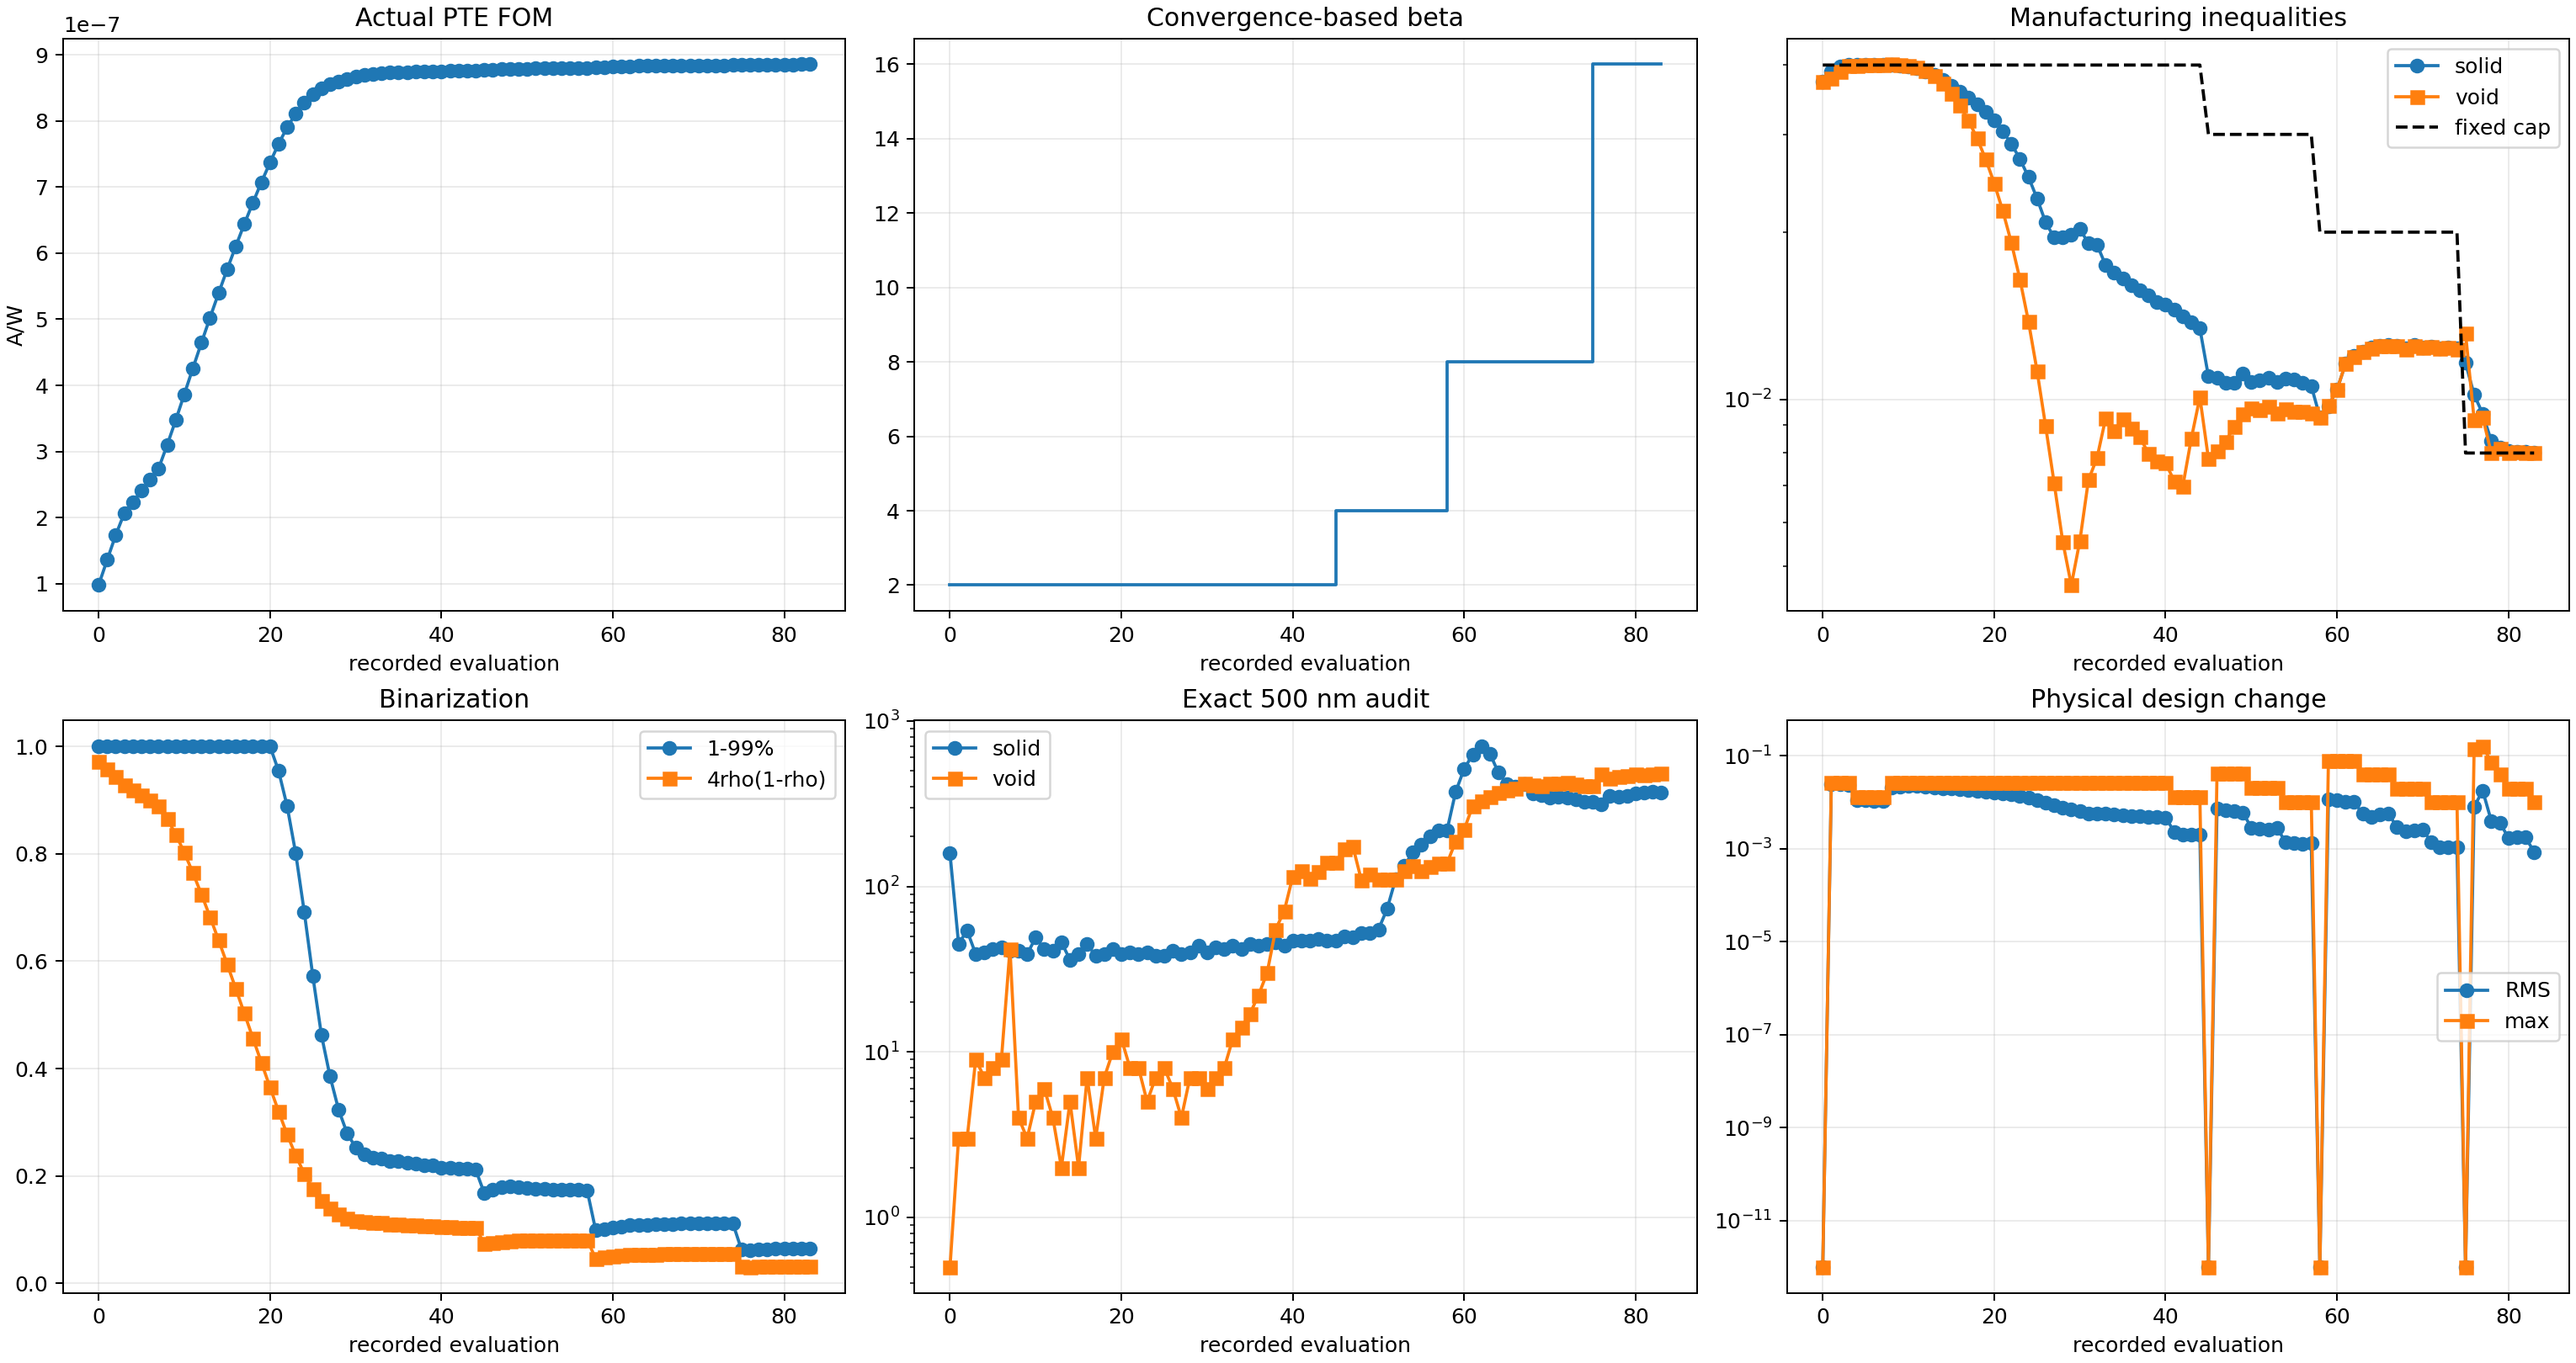
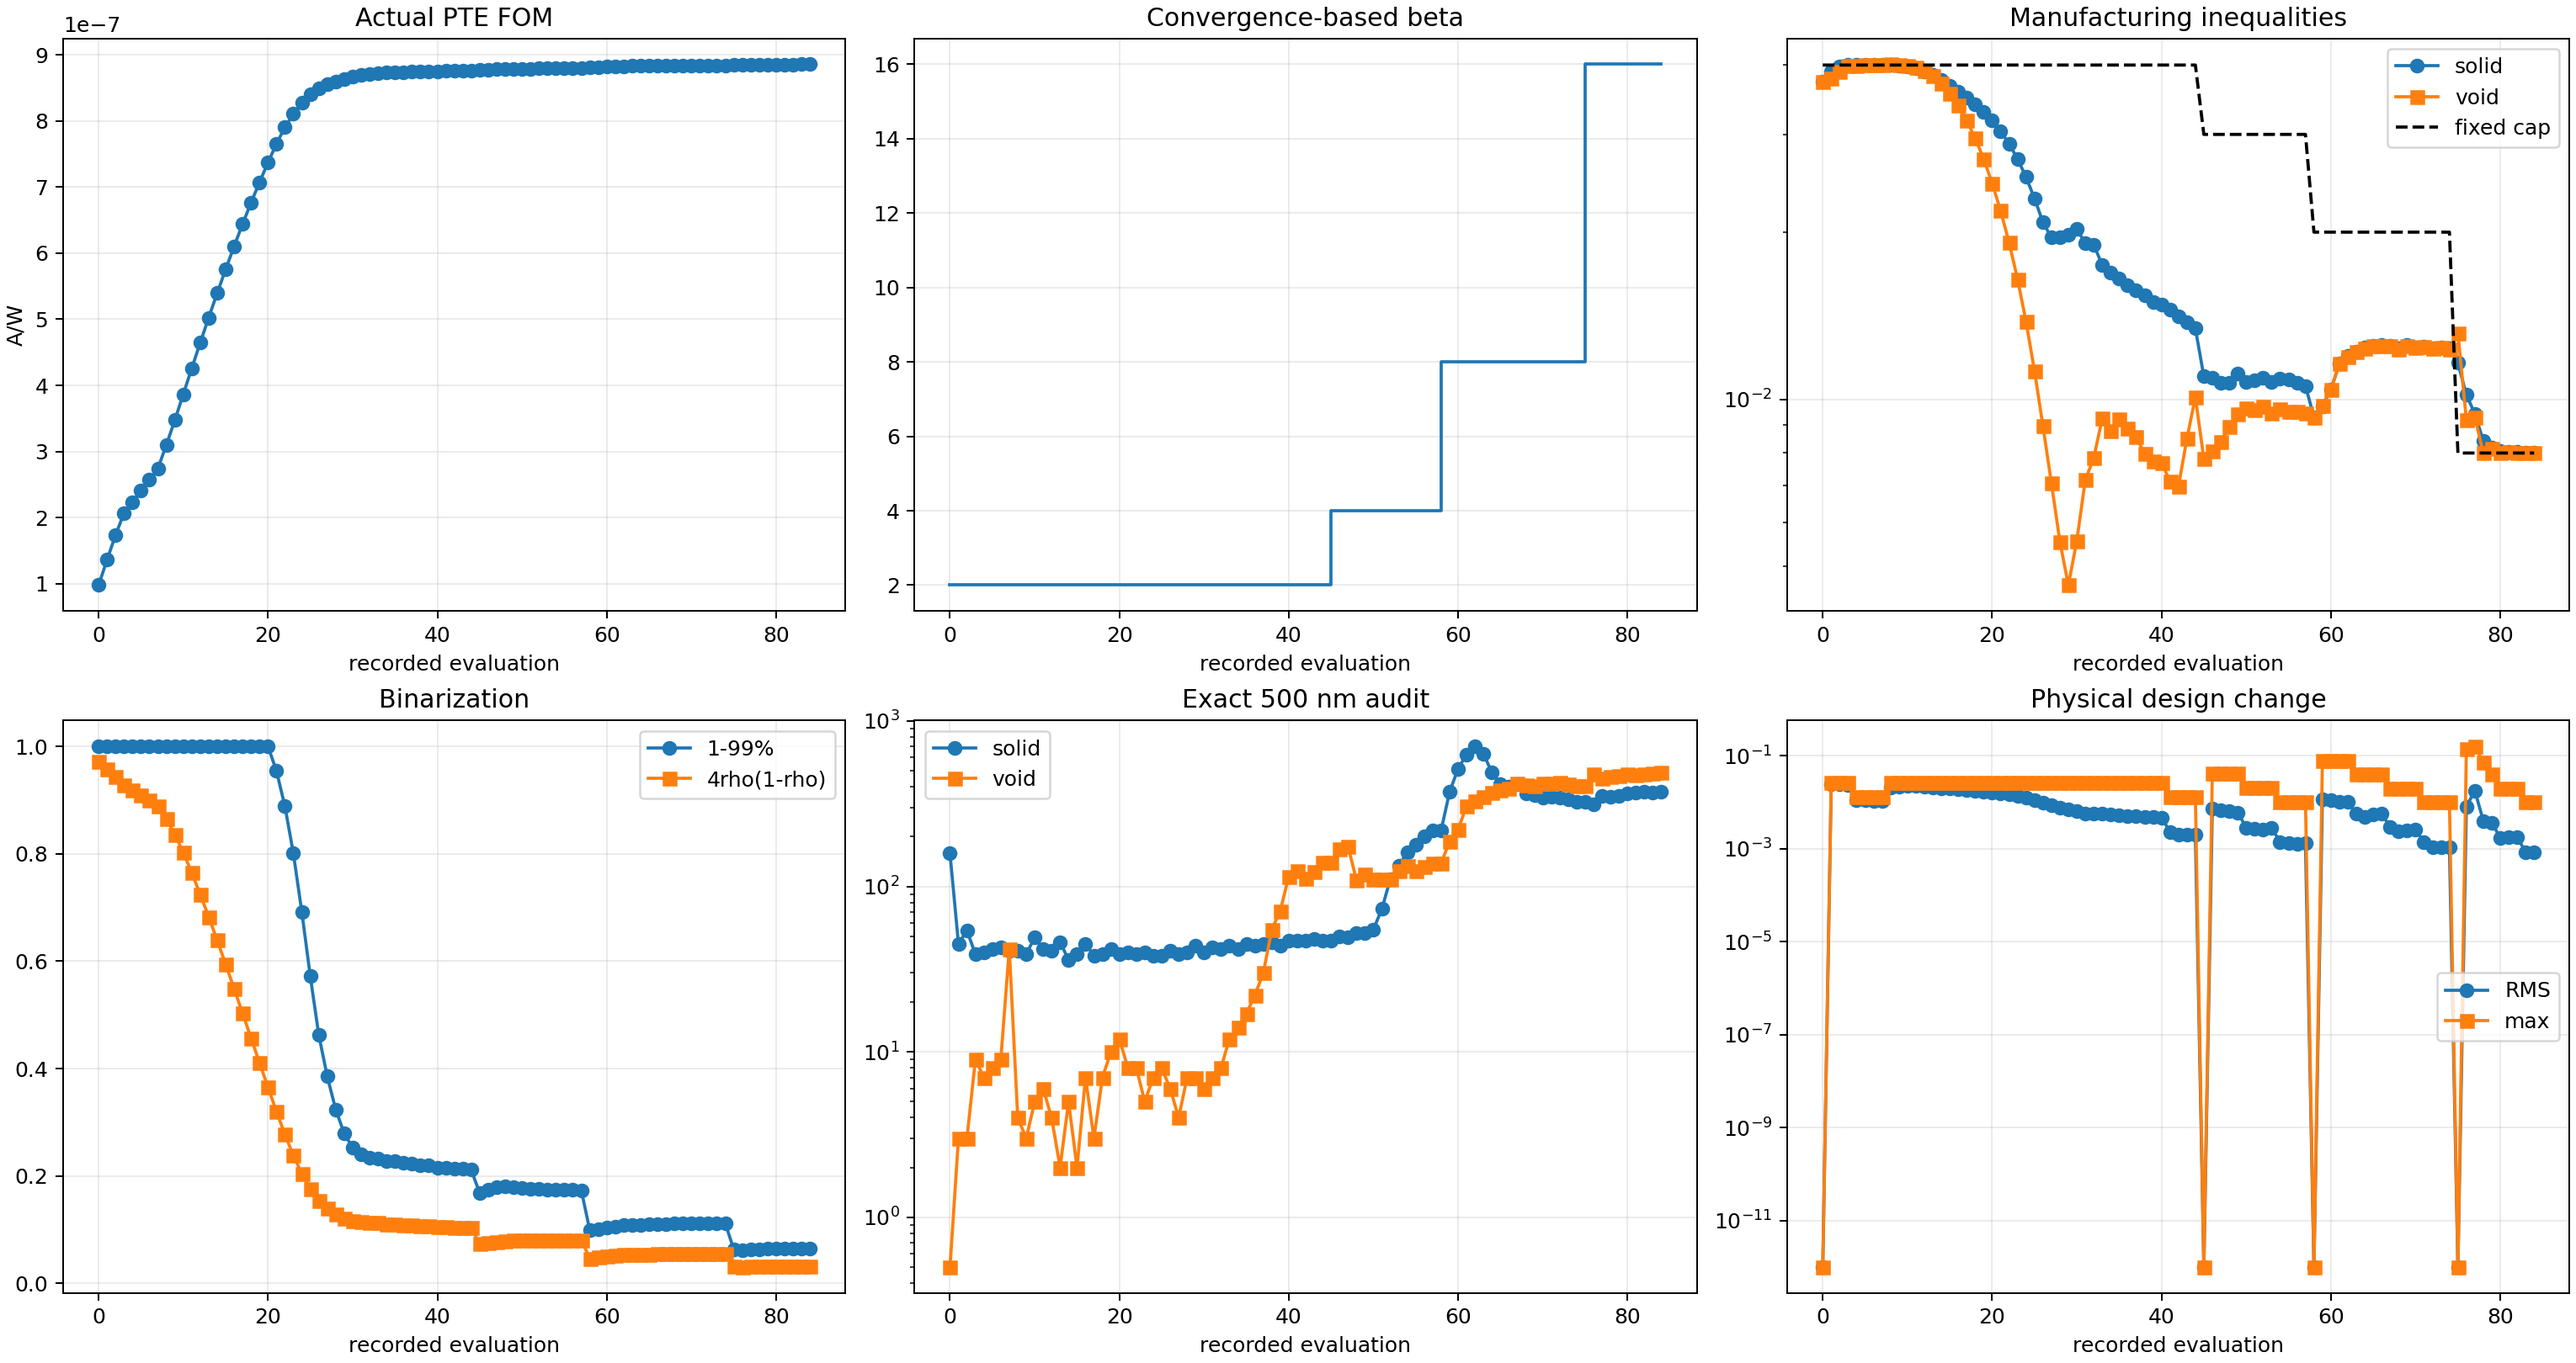
Record Run 003 run003_b016_s009_g081_accepted_mma

diff --git a/photothermal_pte/optimization_runs/run_003_gaussian10_w8p5_current_max_converged/results/OPTIMIZATION_REPORT.md b/photothermal_pte/optimization_runs/run_003_gaussian10_w8p5_current_max_converged/results/OPTIMIZATION_REPORT.md
@@ -2,10 +2,10 @@
 
 Status: `RUNNING_CONVERGENCE_BASED_CONSTRAINED_BETA_CONTINUATION`
 
-Current stage: beta=16, accepted stage iteration=8, global iteration=80.
+Current stage: beta=16, accepted stage iteration=9, global iteration=81.
 
-Actual FOM: `8.857766851123e-07 A/W`. Fixed-cap solid/void constraints: `8.016852e-03` / `8.007115e-03` with cap `8.000000e-03`.
+Actual FOM: `8.858116508565e-07 A/W`. Fixed-cap solid/void constraints: `8.002393e-03` / `8.003539e-03` with cap `8.000000e-03`.
 
-Exact 500 nm bad cells: solid `370`, void `485`. Stage convergence: `False` (recent FOM/density changes have not plateaued).
+Exact 500 nm bad cells: solid `374`, void `486`. Stage convergence: `False` (recent FOM/density changes have not plateaued).
 
 Beta is promoted only after fixed-inequality feasibility and a four-update FOM/design plateau; it is never promoted after one nominal update.
